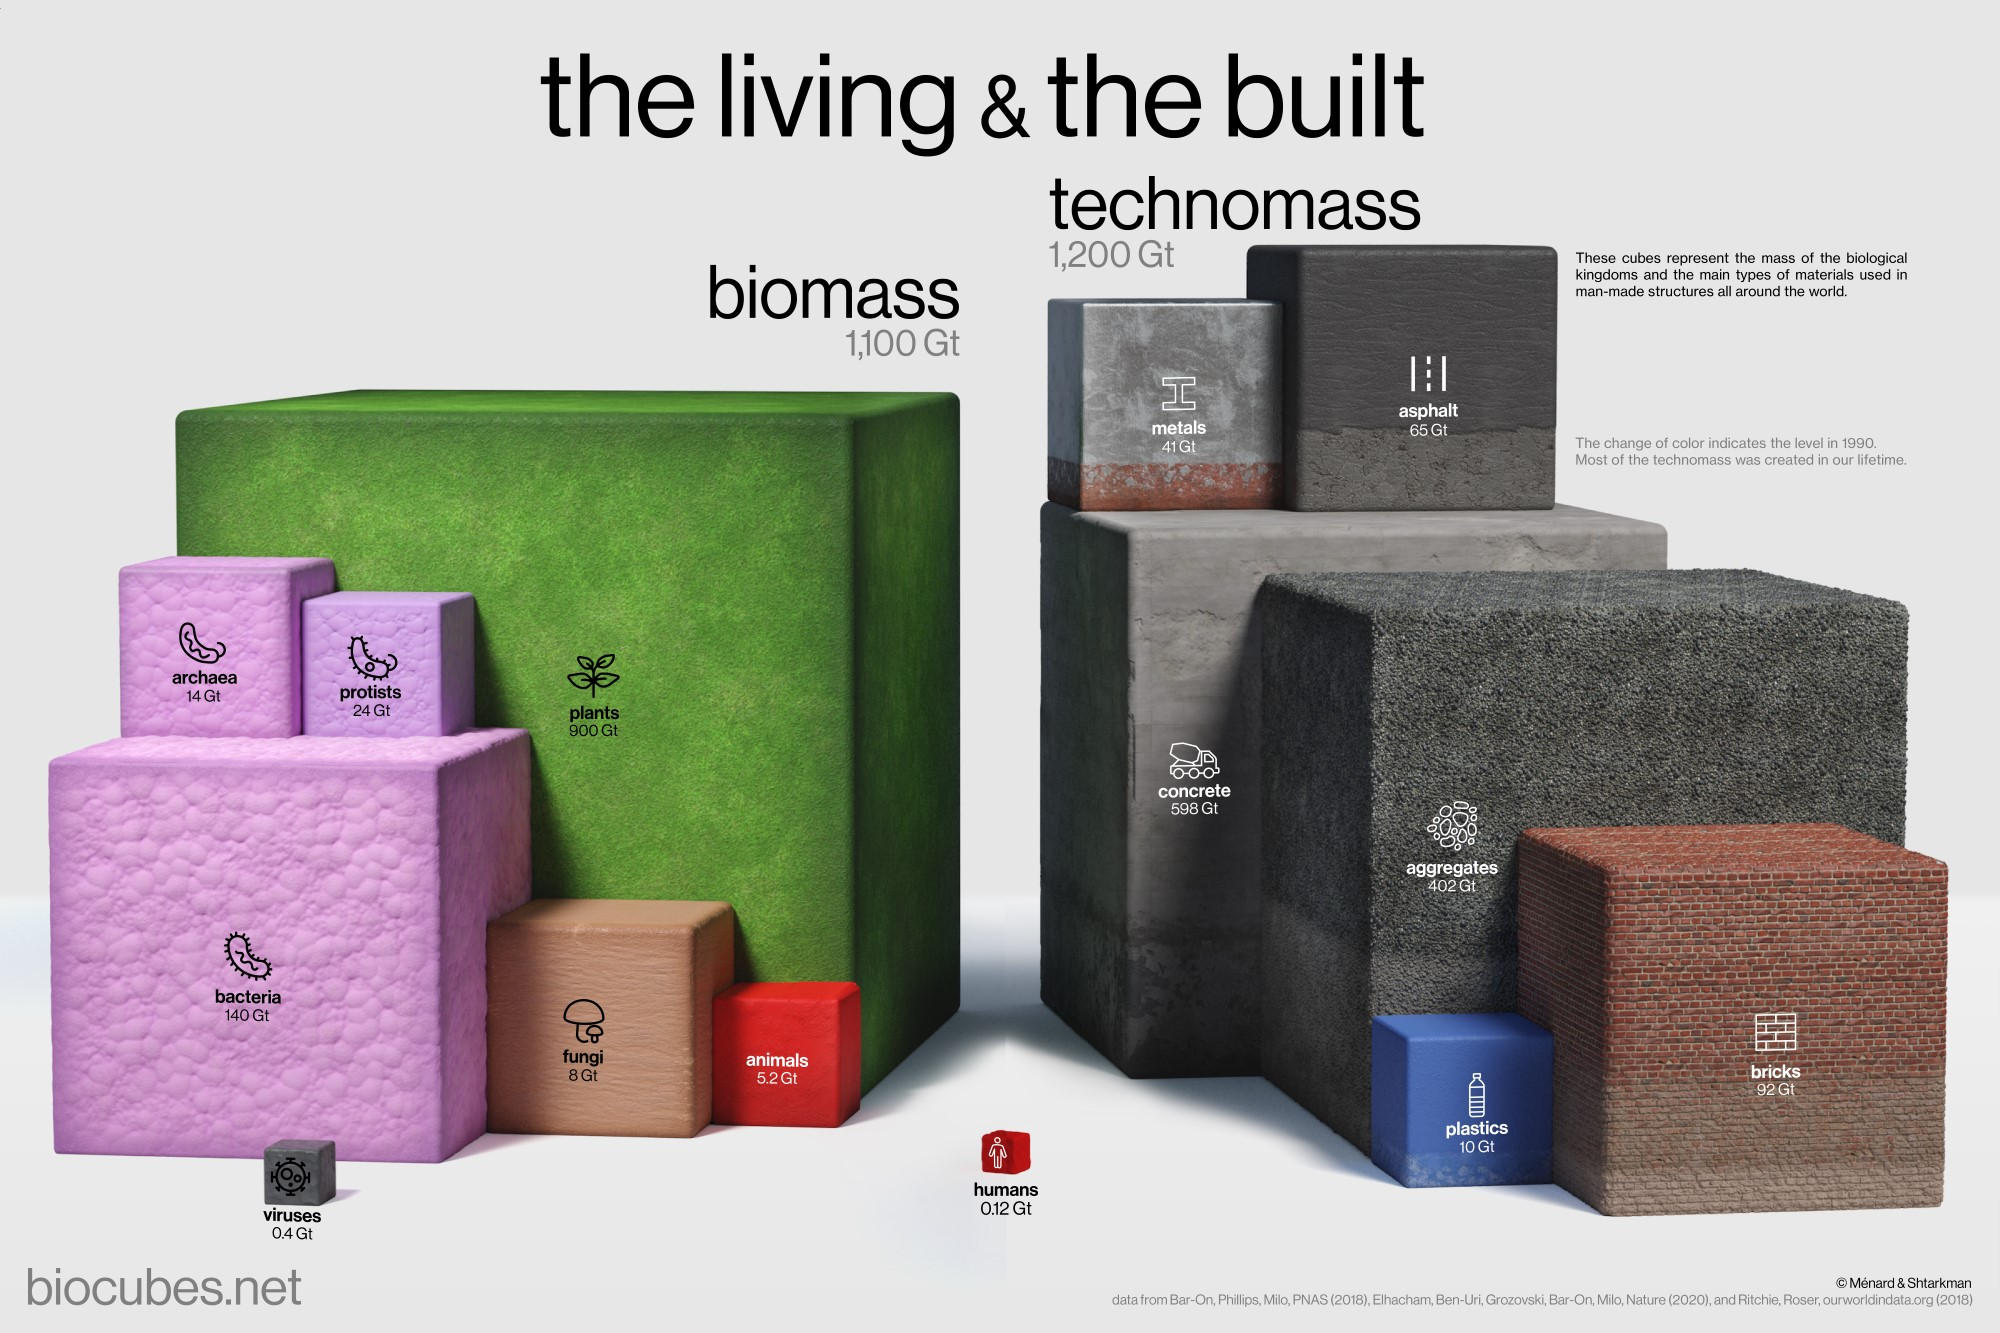
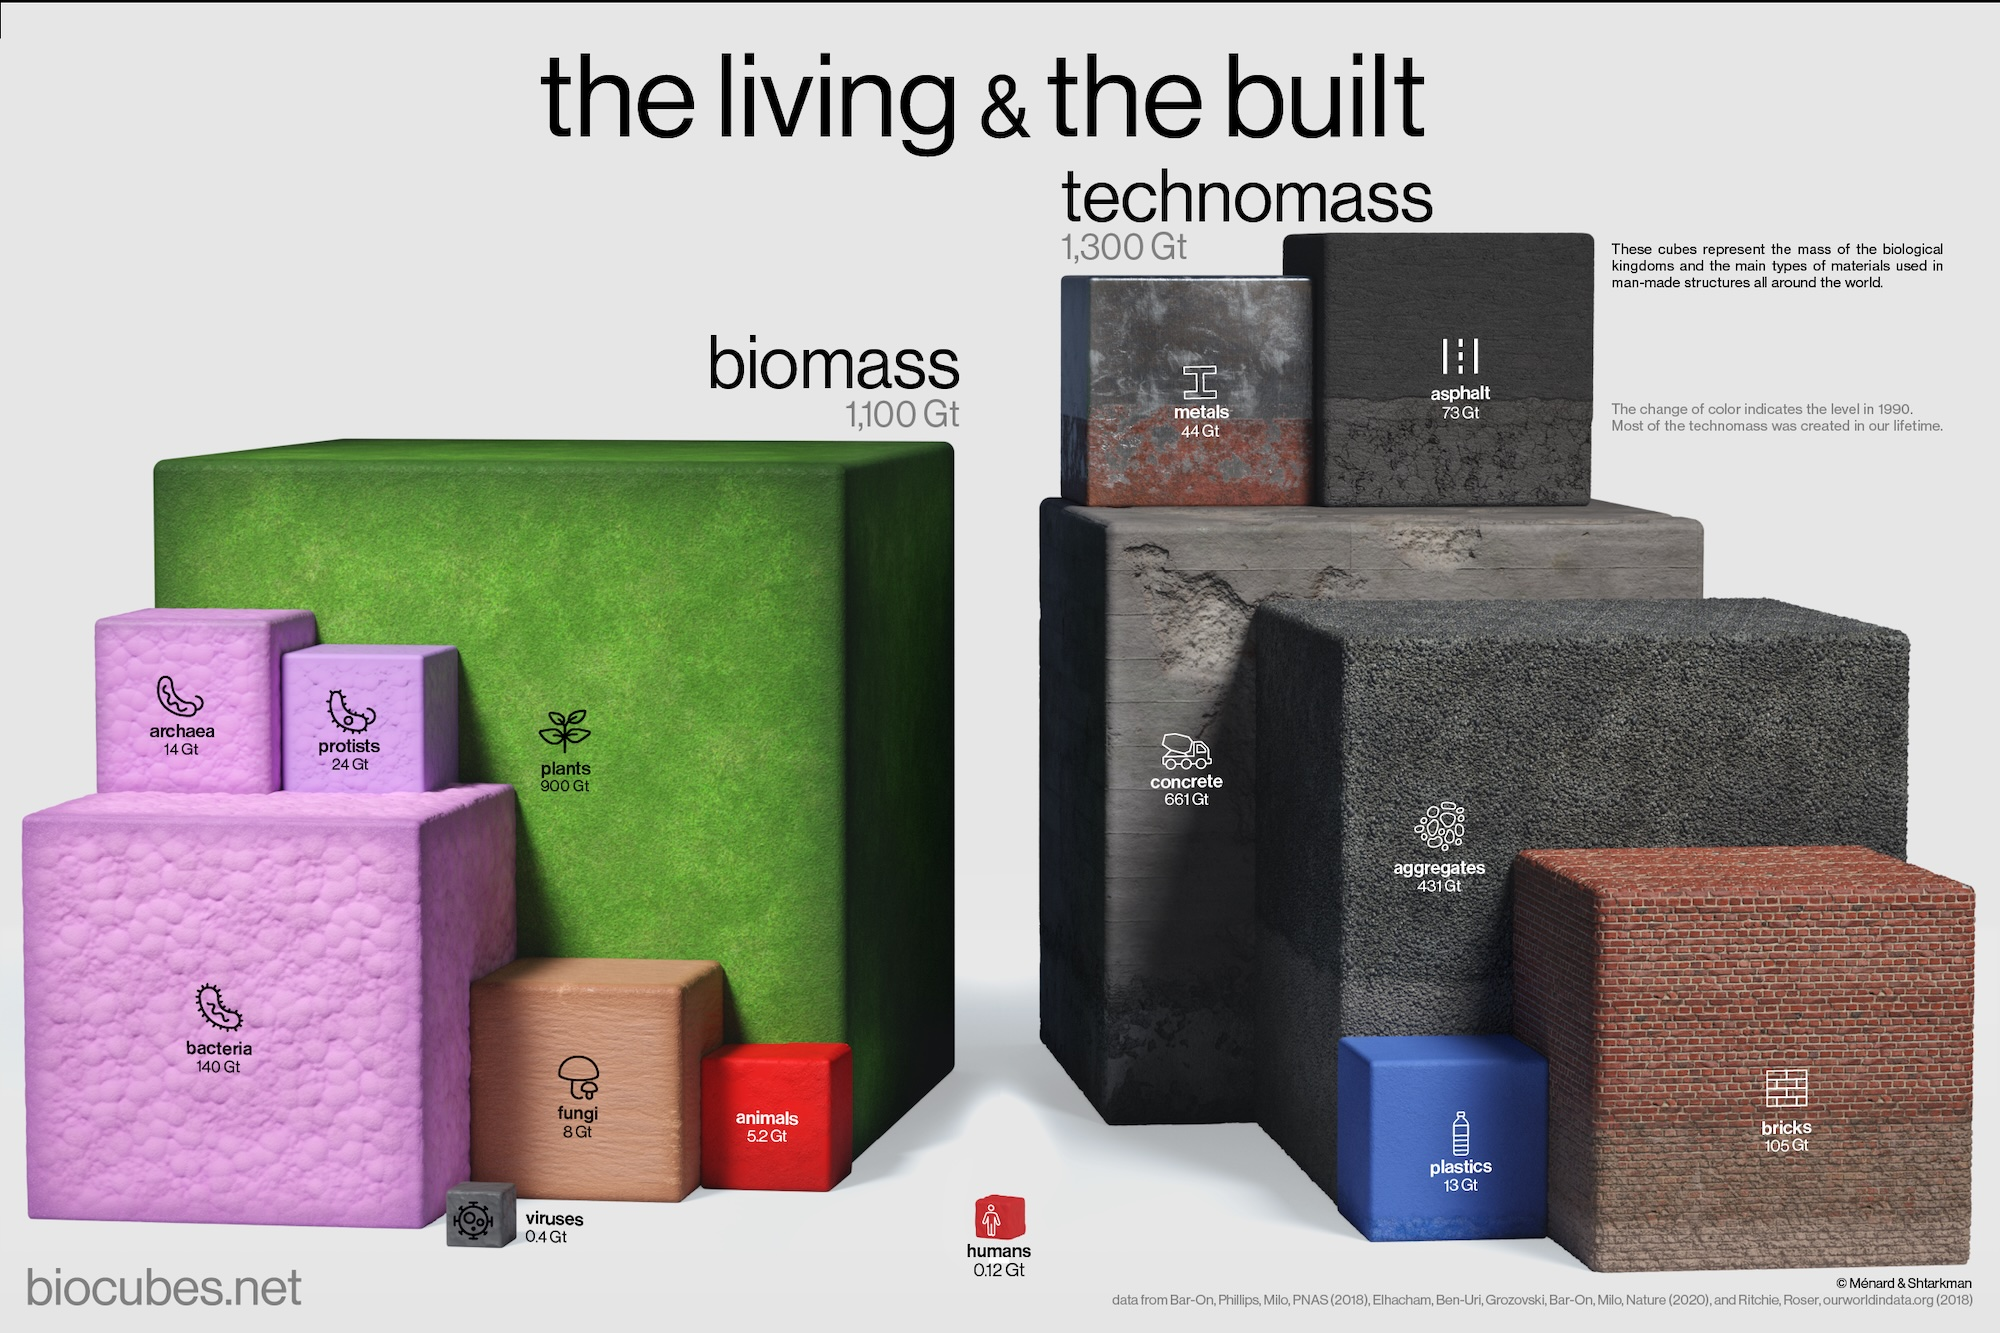
Before final

diff --git a/src/Overlay/EndGrid.js b/src/Overlay/EndGrid.js
@@ -53,47 +53,66 @@ function EndGrid(props) {
         <div className='end_section'>
             <div className='interior_section' style={{ "textAlign": "center" }}>
                 <div className='big_caption_type'>
+
                 </div>
+
 
 
                     <div className='poster-wrapper'>
                         <div className='poster_caption big_caption_type poster_not_line'>
                             {t("get a poster")}
                         </div>
+                        
                         <div className='column_part'>
                             <div className='poster_container top_container'>
                                 <div className='top_container_helper' >
                                     <div className='poster_download_helper'>
                                         <PosterDownload poster="bioPoster" />     
                                     </div>
-
                                 </div>
                             </div>
-
-                                <div className='poster_container bottom_container'>
-
-
-                                    <div className='poster_download_helper poster_extra_caption'>
-
+                            <div className='poster_container bottom_container'>
+                                <div className='poster_download_helper poster_extra_caption'>
                                     <div className='poster_caption big_caption_type line_poster_caption'>
                                         get a poster
                                     </div>
-
                                     <PosterDownload poster="technoPoster" />
-                                    </div>
                                 </div>
+                            </div>
                         </div>
+
                         <div className='big_poster_container' >
                             <div className='poster_container big_poster'>
-                            <div className='poster_download_helper'>
-
-                                <PosterDownload poster="bioTechnoPoster" />
+                                <div className='poster_download_helper'>
+                                    <PosterDownload poster="bioTechnoPoster" />
                                 </div>
                             </div>
                         </div>
 
                     </div>
 
+                {/*
+
+                    <div class="container">
+
+                    
+                    <div class="left">
+                        <div className='poster_container_flex'>
+                            <PosterDownload poster="bioPoster" />     
+                        </div>
+                    </div>
+                    <div class="right">
+                        <div class="right__red">
+                        <PosterDownload poster="bioPoster" />     
+                        </div>
+                        <div class="right__blue">
+                        <PosterDownload poster="bioPoster" />     
+
+                        </div>
+                    </div>
+                </div>
+
+                */}
 
                 </div>
                 <div className='end_credit small_type'>

diff --git a/src/Overlay/EndGrid.css b/src/Overlay/EndGrid.css
@@ -14,8 +14,8 @@
 .sharingLine {
   white-space: nowrap ;
   vertical-align: middle; /* Align to the bottom of the line */
-  padding: 10px;
   border-radius: 10px;
+  line-height: 20pt;
 }
 .sharingLine a{
   position: relative;
@@ -53,14 +53,16 @@
 
 .end_section {
     height: 100%;
-    width: 100%;
+    width: 95%;
     z-index: 10;
+
     text-align: left;
     pointer-events: auto;
     position: absolute;
     display: flex;
-    top: 60%;
-    transform: translate(0, -50%);
+    top: 59%;
+    left: 50%;
+    transform: translate(-50%, -50%);
 
     pointer-events: none;
     justify-content: center;
@@ -119,12 +121,13 @@
 .interior_section {
   width: 100%;
   height: 80%;
+  aspect-ratio: 1 / 1;
+
 }
 
 .poster_caption {
   position: absolute;
   left: 50%;
-  top: 0%;
   text-align: center;
   transform: translate(-50%, -100%);
 }
@@ -394,6 +397,8 @@
 }
 
 
+
+
 .end_credit {
   position: absolute;
   left: 0%;
@@ -419,6 +424,7 @@
   }
   .end_section {
     top: 58%;
+    width: 100%;
     padding: 0%;
   }
   .readButton h2 {
@@ -477,6 +483,9 @@
 
   .line_poster_caption {
     display:block;
+    transform: translate(-50%, -100%);
+    left: 50%;
+
   }
   .poster_not_line {
     display: none;

diff --git a/src/Overlay/PosterDownload.js b/src/Overlay/PosterDownload.js
@@ -2,18 +2,19 @@ import React from "react";
 
 import "./PosterDownload.css"
 import posterInfo from "./posterInfo.json"
+import { publicURL } from "../constants";
 function PosterDownload(props) {
     return (
         <>
         <div class="poster-download">
             
-        <img src={posterInfo[props.poster]["image"]} />
+        <img src={publicURL + posterInfo[props.poster]["image"]} />
         <div class="poster-download-section">
 
         {posterInfo[props.poster]["posters"].map(function(data) {
              return (
                 <div class="row download-row vertical-row">
-                    <a class="col" href={data["url"]} download target="_blank" rel="noopener noreferrer">{data["title"]}</a>
+                    <a class="col" href={publicURL + data["url"]} download target="_blank" rel="noopener noreferrer">{data["title"]}</a>
                 </div>
             )
         }) }

diff --git a/src/Overlay/Overlay.css b/src/Overlay/Overlay.css
@@ -36,6 +36,12 @@
 
   }
 
+  .icon_container img {
+    -webkit-filter: drop-shadow(0px 0px 0px #222);
+    filter: drop-shadow(0px 0px 50px #ffffff);
+  
+  }
+
   /*
   style={{position: "absolute", "left": "50%", "top": "50%", "pointerEvents": "auto", "zIndex": "10"}}
   */
@@ -99,6 +105,7 @@
     transition: all 0.6s;
     z-index: 5;
     transition: all 0.6s;
+
     
   }
 
@@ -106,6 +113,8 @@
     max-width: 55%;
     height: 100%;
     margin: 0 auto;
+    padding: 10px;
+
   }
 
   .logo_container .full_logo {
@@ -625,7 +634,6 @@
 
   .shareEnd {
     top: 12%;
-    left: 50%;
     transition: all 1.0s ease;  /* Smooth transition */
 
   }
@@ -1100,6 +1108,7 @@
    .icon_container {
     max-width: 70%;
   }
+
 
   .logo_container .full_logo {
     max-width: 80%;

diff --git a/src/Items/Part01.js b/src/Items/Part01.js
@@ -11,6 +11,7 @@ import { useFrame, useThree } from 'react-three-fiber'
 import slides from "../slides.json"
 import { lerp } from 'three/src/math/MathUtils'
 import data from '../Overlay/data.json';
+import { publicURL } from '../constants'
 import * as THREE from 'three'
 import './3d.css'
 
@@ -18,7 +19,7 @@ import './3d.css'
 export function Part01(props) {
   const group = useRef()
   //const { nodes, materials, animations } = useGLTF('https://corsproxy.io/?url=https://menard.pha.jhu.edu/Biocubes/Part01.glb')
-  const { nodes, materials, animations } = useGLTF('Part01.glb')
+  const { nodes, materials, animations } = useGLTF(publicURL + 'Part01.glb')
 
   const { actions } = useAnimations(animations, group)
   const imageRef_one = useRef()

diff --git a/src/Overlay/ClickInfo.js b/src/Overlay/ClickInfo.js
@@ -4,6 +4,7 @@ import { Vector3 } from 'three';
 import myData from './data.json';
 import './ClickInfo.css';
 
+import { publicURL } from '../constants';
 import { useTranslation } from 'react-i18next';
 
 function ClickInfo(props) {
@@ -52,7 +53,7 @@ function ClickInfo(props) {
 
                     <div className='ClickInfo_image'>
 
-                        <img src={myData[name.current].image}></img>
+                        <img src={publicURL + myData[name.current].image}></img>
                         <div className = "ClickInfo_image_overlay">
                             
                         </div>

diff --git a/src/Overlay/SourcesModal.js b/src/Overlay/SourcesModal.js
@@ -14,6 +14,12 @@ function SourcesModal(props) {
                 learn more
             </div>
             <Divider/>
+            <span style={{"color" : "var(--border_grey"}}>
+
+            all rights reserved
+            </span>
+            <Divider/>
+
             <Grid divided>
                 <Grid.Row columns={3}>
                     <Grid.Column>

diff --git a/src/constants.js b/src/constants.js
@@ -1,0 +1,1 @@
+export const publicURL = "https://biomass.pages.dev/"
